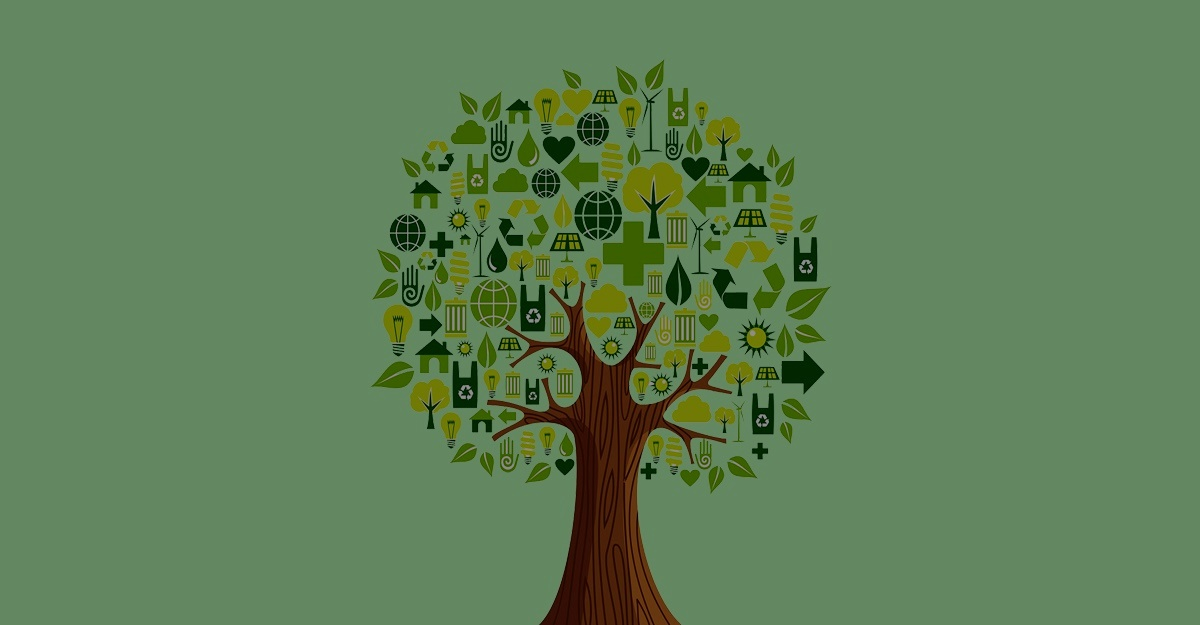
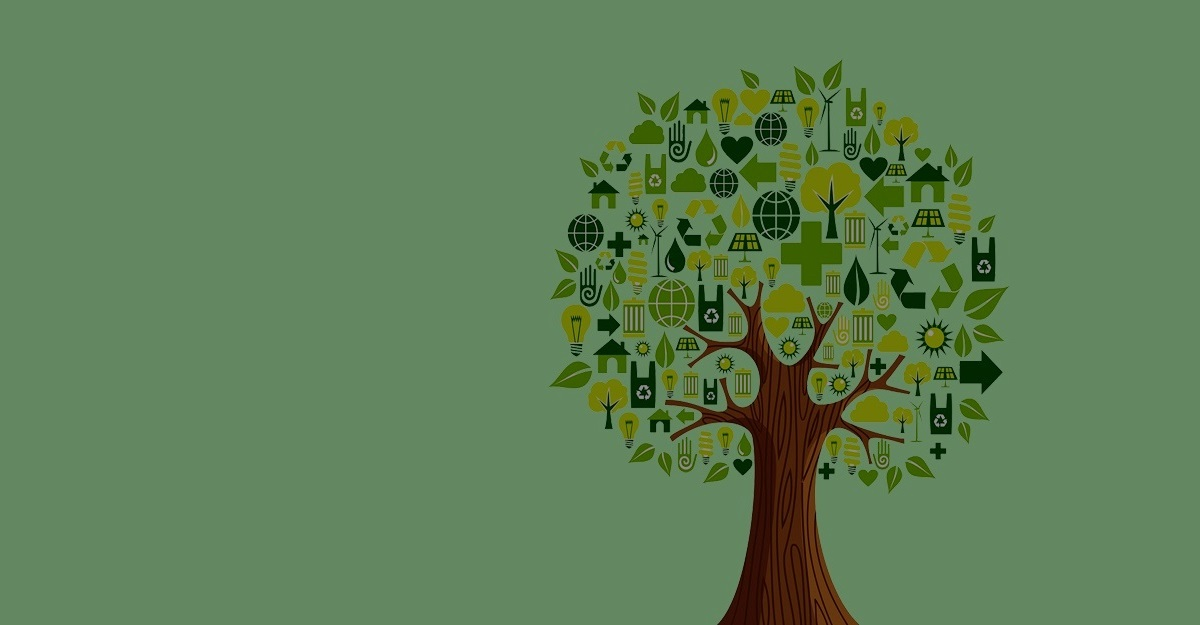
alteracao em layout pag agenda

Changed region(s): [[0.3083, 0.0912, 0.8325, 1.0]]

diff --git a/agenda.html b/agenda.html
@@ -50,7 +50,7 @@
 			<i class="fa fa-bars"></i>
 		</div>
 		<div class="container">
-			<ul class="main-menu">
+			<ul class="main-menu" align="center">
 				<li><a href="index.html">Home</a></li>
 				<li><a href="agenda.html">Agenda 2030</a></li>
 				<li><a href="sustentabilidade.html">Sustentabilidade</a></li>
@@ -111,7 +111,7 @@
 	</section>
 	<!-- About section end -->
 
-	<!-- Milestone section end --><center>
+	<!-- Milestone section end -->
 	<section class="milestone-section">
 		<div class="milestone-warp">
 			<div class="milestone">
@@ -127,7 +127,7 @@
 				<h4>Estados-Membros</h4>
 			</div>
 		</div>
-</section></center>
+	</section>
 	<!-- Milestone section end -->
 
 

diff --git a/contact.html b/contact.html
@@ -45,7 +45,7 @@
 		<div class="nav-switch">
 			<i class="fa fa-bars"></i>
 		</div>
-		<div class="container">
+		<div class="container" align="center">
 			<ul class="main-menu">
 				<li><a href="index.html">Home</a></li>
 				<li><a href="agenda.html">Agenda 2030</a></li>

diff --git a/index.html b/index.html
@@ -31,7 +31,7 @@
 		<div class="nav-switch">
 			<i class="fa fa-bars"></i>
 		</div>
-		<div class="container">
+		<div class="container" align="center">
 			<ul class="main-menu">
 				<li><a href="index.html">Home</a></li>
 				<li><a href="agenda.html">Agenda 2030</a></li>

diff --git a/institucional.html b/institucional.html
@@ -45,7 +45,7 @@
 		<div class="nav-switch">
 			<i class="fa fa-bars"></i>
 		</div>
-		<div class="container">
+		<div class="container" align="center">
 			<ul class="main-menu">
 				<li><a href="index.html">Home</a></li>
 				<li><a href="agenda.html">Agenda 2030</a></li>

diff --git a/sustentabilidade.html b/sustentabilidade.html
@@ -45,7 +45,7 @@
 		<div class="nav-switch">
 			<i class="fa fa-bars"></i>
 		</div>
-		<div class="container">
+		<div class="container" align="center">
 			<ul class="main-menu">
 				<li><a href="index.html">Home</a></li>
 				<li><a href="agenda.html">Agenda 2030</a></li>

diff --git a/noticias.html b/noticias.html
@@ -37,7 +37,7 @@
 	</div>
 	
 	<!-- Header section -->
-	<header class="header-section">
+	<header class="header-section" align="center">
 		<!-- logo -->
 		<a href="index.html" class="site-logo">
 			<img src="img/logo.png" alt="">
